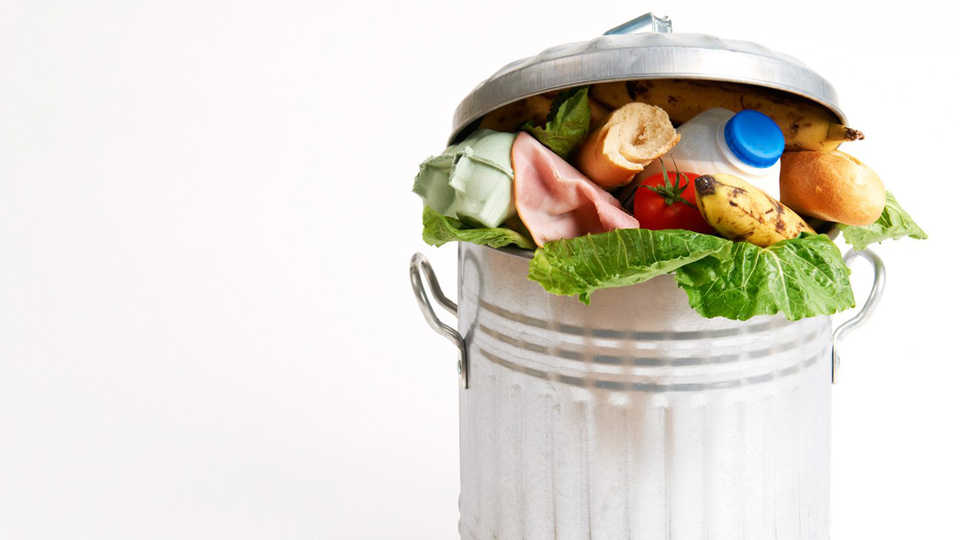
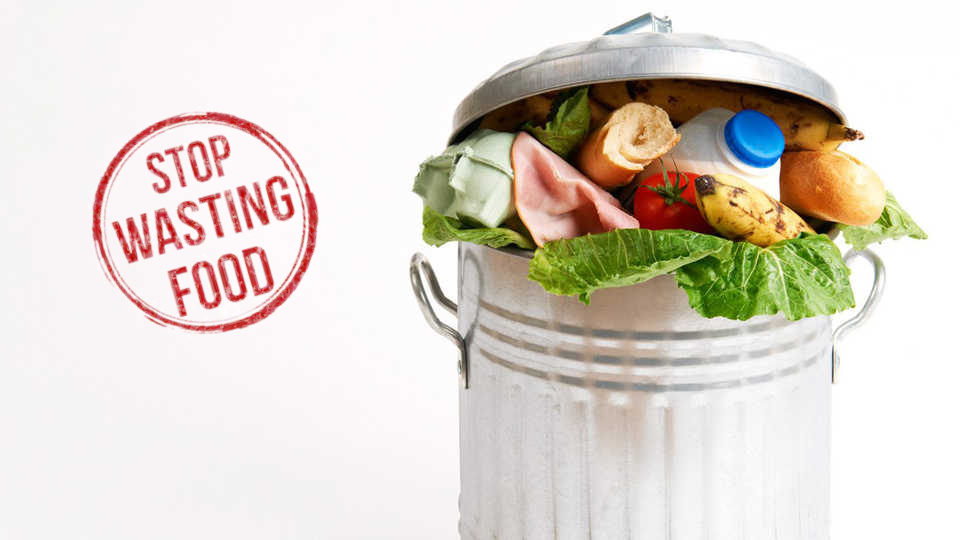
Added Some Content

Changed region(s): [[0.0938, 0.2074, 0.3438, 0.6222]]

diff --git a/index.html b/index.html
@@ -21,7 +21,7 @@ est. 1922        |_|  \_\___| \_/ |_|\___| \_/\_/
         
 <meta http-equiv="X-UA-Compatible" content="IE=edge">
 <meta name="msapplication-config" content="none">
-<title>Do You Have “Advantage Blindness”?</title>
+<title>Food waste: a lesson from the past</title>
   <meta name="item-id" content="tag:blogs.harvardbusiness.org,2007-03-31:999.199320">
   <meta property="og:type" content="article">
   <meta property="article:section" content="Technology and History">
@@ -509,7 +509,7 @@ est. 1922        |_|  \_\___| \_/ |_|\___| \_/\_/
 						<div class="topic mbs">
 							<a href="https://hbr.org/topic/technology">Technology and History</a>
 						</div>
-					<h1 class="article-hed">ARTICLE TITLE</h1>
+					<h1 class="article-hed">Food waste: a lesson from the past</h1>
 						<div class="byline">
 							<ul class="byline-list">
 								<li style="color: #0796cd;">Nimit Jaggi</li><li style="color: #0796cd;">Alexander Lock</li><li style="color: #0796cd;">Victor Reise</li><li style="color: #0796cd;">Pierre-Olivier Trottier</li>
@@ -625,7 +625,23 @@ est. 1922        |_|  \_\___| \_/ |_|\___| \_/\_/
   </figcaption>
  </figure> 
 </div>
-<p>ARTICLE CONTENT</p>
+<p>
+	As you probably know, food waste is basically non-existent in today’s society, but it wasn’t always like this. Today, people in developed countries all around the globe are very conscious of their wastefulness and try to minimize it everywhere they can. From farms to individuals’ fridges, passing by the supermarkets, almost no food is wasted and there are laws in place to make sure that it remains this way for the foreseeable future.
+	<br><br>
+	At home, our fridges notify us whenever something is about to go bad so that we can use it promptly. They even propose some possible recipes to cook the food that has the least amount of time left to be fresh. It is also generally badly seen to throw out food, but you should already know that. We all know it is best to bring our leftover food to the food banks and kitchen soups before it expires. On the other hand, large scale organizations (e.g. supermarket) have standards to respect to make sure that almost all their food is used properly. They have to send the food that’s about to go bad directly to non-profit organizations in their area. Large organizations and brands supporting the no food waste movement are almost everywhere and most of the population in Canada doesn’t even consider buying food that doesn’t have the <strong>0FOODWASTE</strong> seal of approval.
+	<br><br>
+	For those who don’t know where the <strong>0FOODWASTE</strong> program comes from, we have to go all the way back to December 2019. There are no official versions of this story since all written knowledge was lost in the mid-2000s but the origin story was passed from generation to generation in my family. Because my father and his mother were both historians, these kinds of special events that don’t mean much to the majority of people are seen as quite special. Anyway, let’s get back to the story. The end of 2019 was approaching rapidly and the environmental plaguing the planet was getting worse by the hours. The government of Canada decided it was time to act and they put in place a plan to help save the planet. 
+	<br><br>
+	The first step was to survey all food corporations and brands in the country and classify them by their waste levels. They hoped that their evaluations would push citizens to buy from more eco-responsible brands. After the data was collected, all brands that threw away less than 5% of the weighted amount of food they produced or sold were awarded a <strong>0FOODWASTE</strong>  stamp. This was a clear invitation to food producers and distributors to stop wasting food for no reason. On top of that, if the company sent at least 50% of their almost-waste food to not-for-profit organizations they were awarded a gold stamp. The government put in place this constraint in hopes that it would help feed the poor and put to good use all this extra food. Finally, if the companies bought or sold at least 50% of their products locally they were awarded the diamond stamp. This last constraint aimed at reducing the carbon footprint of the food industry by diminishing the distance travelled by the food it served. 
+	<br><br>
+	I think it is important to note that the companies that didn’t hop on board with the project at the time, no matter their size are basically all inexistent today. A good example of this is Walmart. They were the biggest multinational in the world with over <a href="https://www.cnbc.com/2018/05/23/walmart-is-the-no-1-fortune-500-company-for-the-6th-straight-year.html" target="_blank">$650 billion of revenue</a> and almost <a href="https://www.statista.com/statistics/256172/total-number-of-walmart-stores-worldwide/" target="_blank">12 000 stores worldwide</a>, and today they’re on the verge of going bankrupt. 
+	<br><br>
+	In 2019, about <a href="https://www.cbc.ca/news/canada/toronto/food-waste-report-second-harvest-1.4981728" target="_blank">4.82 million tonnes of food were thrown out</a> by supermarkets and food producers. At the time, this much food was worth nearly $21 billion. Most of this waste was because food would go past their “best before” labels, at which point they could not be sold anymore. On top of these millions of tonnes of food wasted during the production and distribution of the foodstuffs, another <a href="https://www.cbc.ca/news/canada/toronto/food-waste-report-second-harvest-1.4981728" target="_blank">2.38 million tonnes of food (worth more than $10 billion at the time)</a> were wasted by individuals after they purchased the food. Combined, these quantities add up to around 58% of all the food produced in 2019. Needles to say these enormous amounts of food thrown away pushed people to start thinking about a solution to the problem. <a href="https://www.cbc.ca/news/canada/british-columbia/grocers-innovators-work-to-save-31b-in-food-from-being-trashed-in-canada-each-year-1.4898285" target="_blank">Many started asking grocery chains to give away their almost-bad food to non-profits around them</a>. 
+	<br><br>
+	As the movement gained traction, it attracted the Canadian government’s attention and it’s at that point that the idea of <strong>0FOODWASTE</strong> started emerging. There were a few technical problems at the time though; The government needed a way to safely and accurately determine if food that was passed its “best-before” date was still safe to eat and safe to distribute to the public. To solve that problem, they sent an open invitation to any canadian companies that would want to try and develop a device that could accurately determine the amount of life left in a food. They had already seen <a href="https://www.amazon.com/Greentest-Accuracy-Detector-Nitrate-Vegetable/dp/B01FJ9722K" target="_blank">a few prototypes</a> in circulation but wanted <a href="https://electronicsforu.com/technology-trends/detect-food-spoilage-sensors" target="_blank">a more secure and accurate way</a> to measure the life-expectancy of food6. 
+	<br><br>
+	<strong>TO CONTINUE</strong>
+</p>
 					<!-- citation -->
 				</div>
 			</div>
@@ -633,19 +649,20 @@ est. 1922        |_|  \_\___| \_/ |_|\___| \_/\_/
 			<section class="authors mvl" js-target="authors-section">
 				<div class="row">
 					<div class="content-area--article column">
+						<h2>About the authors</h2>
 							<hr>
 							<div class="is-inline-block width-100pct">
-									<p class="mbn description-text "><span class=" font-size-22 font-tighten-most" style="color: #0796cd;">Nimit Jaggi</span> is a Software Engineering Graduate from Concordia University. He Will turn 200 years old in january, marking the first true success of experimental medical tests to prolonge life by up to 2x the average human lifespan.</p>
+									<p class="mbn description-text "><span class=" font-size-22 font-tighten-most" style="color: #0796cd;">Nimit Jaggi <strong>(400xxxxx)</strong></span> is a Software Engineering Graduate from Concordia University. He Will turn 200 years old in january, marking the first true success of experimental medical tests to prolonge life by up to 2x the average human lifespan.</p>
 							</div>
 							<hr>
 							<div class="is-inline-block width-100pct">
-									<p class="mbn description-text "><span class=" font-size-22 font-tighten-most" style="color: #0796cd;">Alexander Lock</span> is a Software Engineering Graduate from Concordia University. He Will turn 200 years old in january, marking the first true success of experimental medical tests to prolonge life by up to 2x the average human lifespan.</p>
+									<p class="mbn description-text "><span class=" font-size-22 font-tighten-most" style="color: #0796cd;">Alexander Lock <strong>(400xxxxx)</strong></span> is a Software Engineering Graduate from Concordia University. He Will turn 200 years old in january, marking the first true success of experimental medical tests to prolonge life by up to 2x the average human lifespan.</p>
 							</div>
 							<hr><div class="is-inline-block width-100pct">
-									<p class="mbn description-text "><span class=" font-size-22 font-tighten-most" style="color: #0796cd;">Victor Reise</span> is a Software Engineering Graduate from Concordia University. He Will turn 200 years old in january, marking the first true success of experimental medical tests to prolonge life by up to 2x the average human lifespan.</p>
+									<p class="mbn description-text "><span class=" font-size-22 font-tighten-most" style="color: #0796cd;">Victor Reise <strong>(400xxxxx)</strong></span> is a Software Engineering Graduate from Concordia University. He Will turn 200 years old in january, marking the first true success of experimental medical tests to prolonge life by up to 2x the average human lifespan.</p>
 							</div>
 							<hr><div class="is-inline-block width-100pct">
-									<p class="mbn description-text "><span class=" font-size-22 font-tighten-most" style="color: #0796cd;">Pierre-Olivier Trottier</span> is a Software Engineering Graduate from Concordia University. He Will turn 200 years old in january, marking the first true success of experimental medical tests to prolonge life by up to 2x the average human lifespan.</p>
+									<p class="mbn description-text "><span class=" font-size-22 font-tighten-most" style="color: #0796cd;">Pierre-Olivier Trottier <strong>(40059235)</strong></span> is a Software Engineering Graduate from Concordia University. He Will turn 200 years old in january, marking the first true success of experimental medical tests to prolonge life by up to 2x the average human lifespan.</p>
 							</div>
 						<hr>
 					</div>
